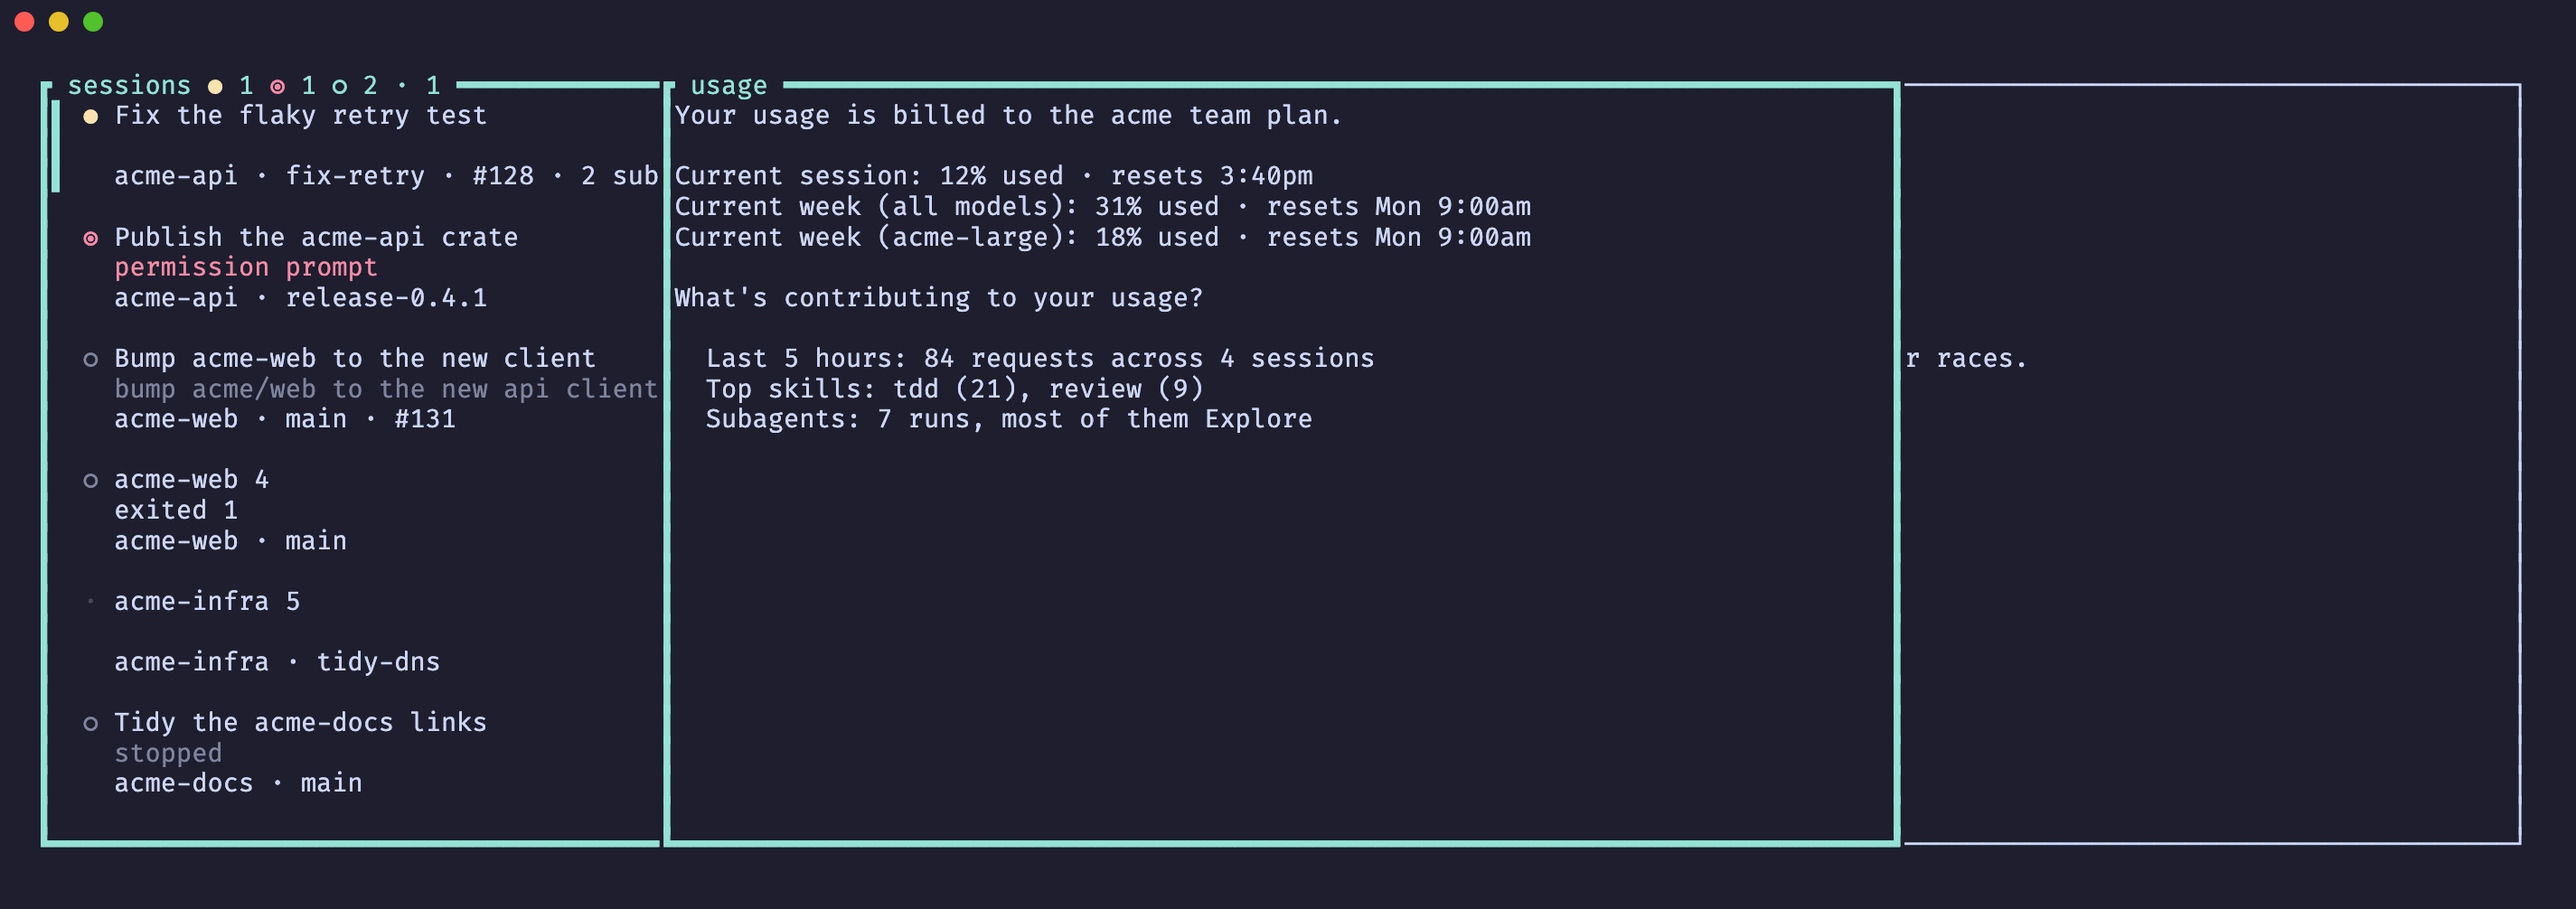
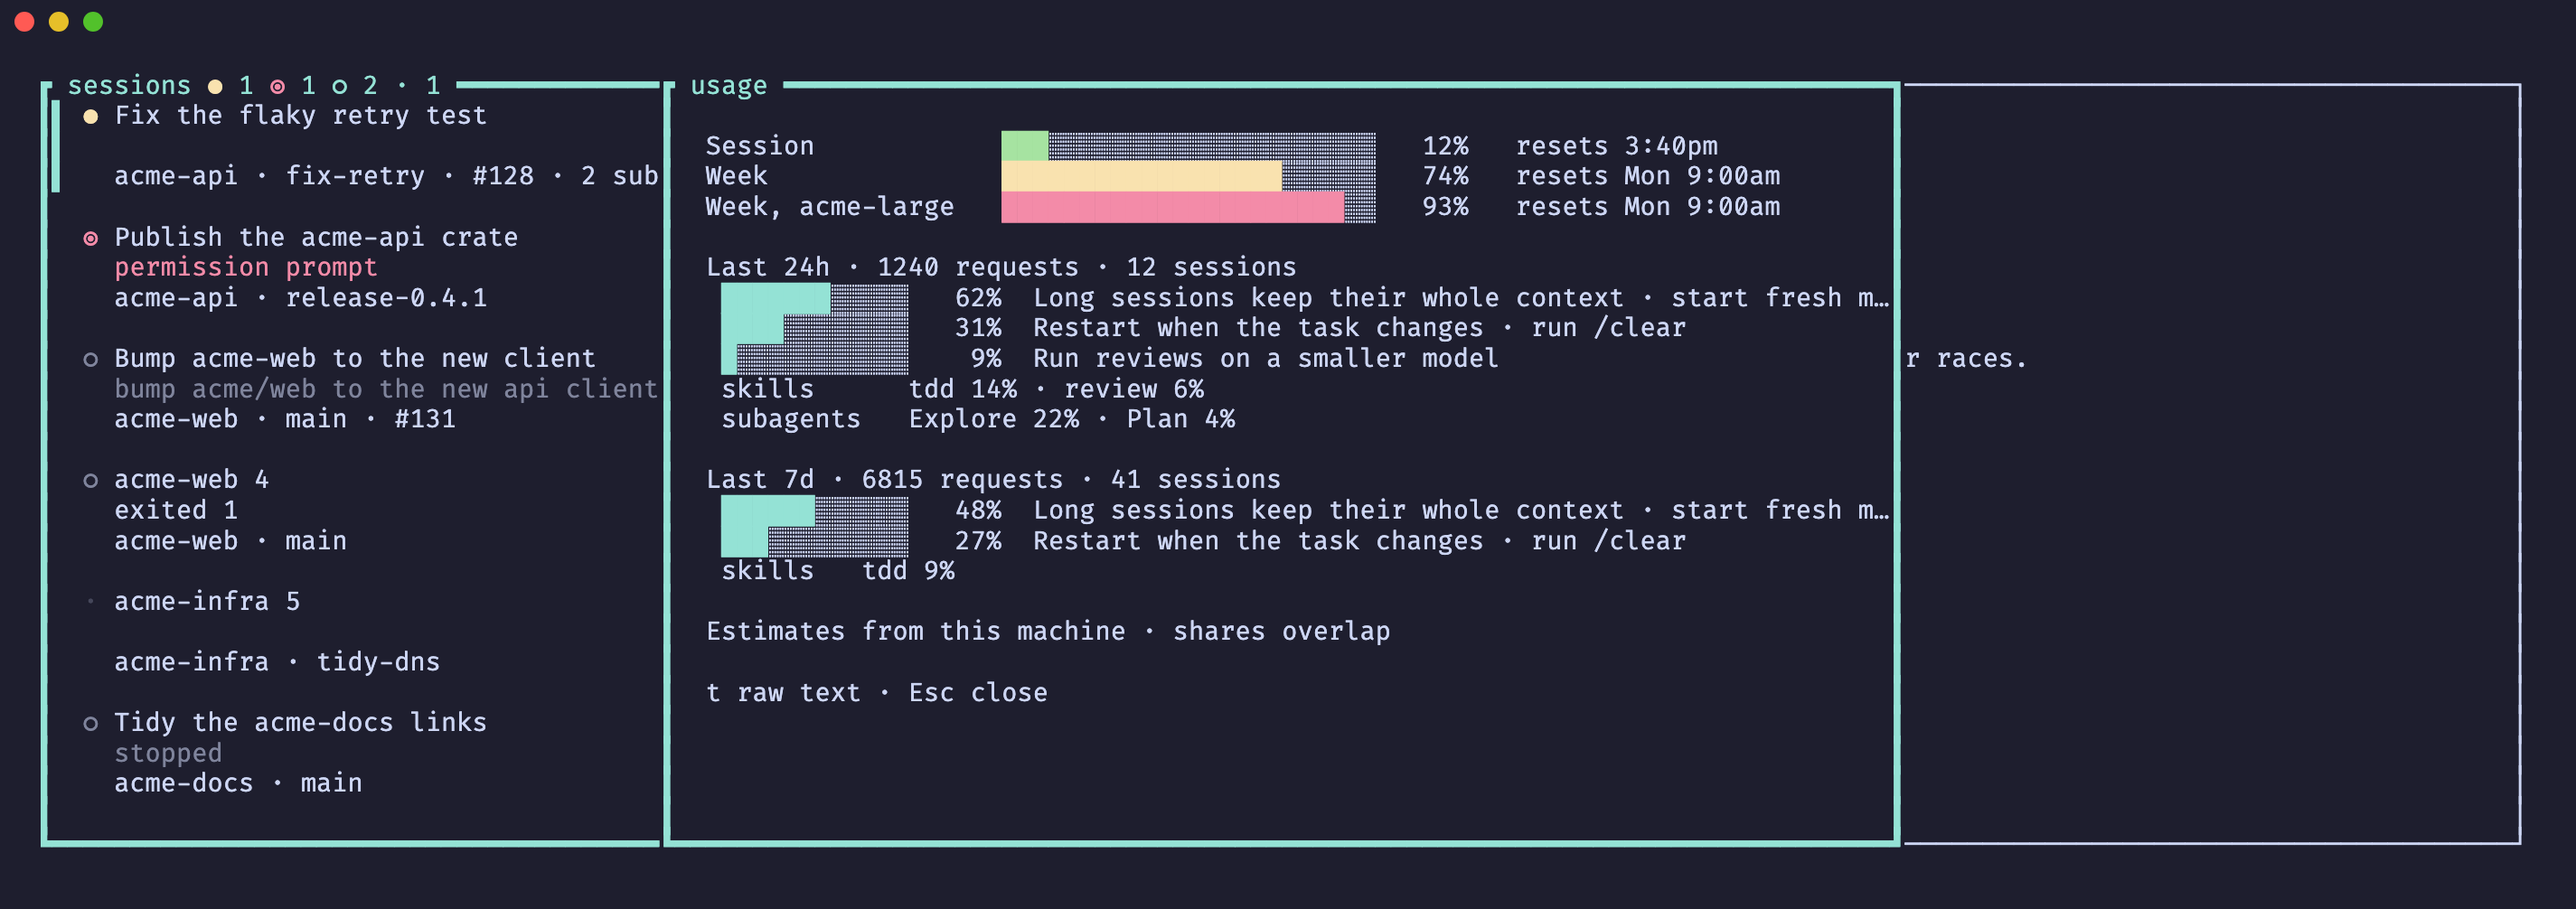
The demo's usage report draws its breakdowns and the usage shot is taken again

diff --git a/src/demo.rs b/src/demo.rs
@@ -62,14 +62,22 @@ pub fn editor() -> Program {
 const UNKNOWN: &str = r#"printf 'acme shell in ~/%s\n' "${PWD##*/}"
 exec sleep 86400"#;
 
-const USAGE: &str = r#"printf 'Your usage is billed to the acme team plan.\n\n'
-printf 'Current session: 12%% used · resets 3:40pm\n'
-printf 'Current week (all models): 31%% used · resets Mon 9:00am\n'
-printf 'Current week (acme-large): 18%% used · resets Mon 9:00am\n\n'
-printf '\033[1mWhat'"'"'s contributing to your usage?\033[0m\n\n'
-printf '  Last 5 hours: 84 requests across 4 sessions\n'
-printf '  Top skills: tdd (21), review (9)\n'
-printf '  Subagents: 7 runs, most of them Explore\n'"#;
+const USAGE: &str = r#"printf 'You are on the acme team plan\n\n'
+printf 'Current session: 12%% used · resets 3:40pm (Acme/Harbour)\n'
+printf 'Current week (all models): 74%% used · resets Mon 9:00am (Acme/Harbour)\n'
+printf 'Current week (acme-large): 93%% used · resets Mon 9:00am (Acme/Harbour)\n\n'
+printf '\033[1mWhat'"'"'s contributing to your usage?\033[0m\n'
+printf 'Estimates from this machine · shares overlap\n\n'
+printf 'Last 24h · 1240 requests · 12 sessions\n'
+printf '  62%%  Long sessions keep their whole context · start fresh more often\n'
+printf '  31%%  Restart when the task changes · run /clear\n'
+printf '  9%%  Run reviews on a smaller model\n'
+printf '  Top skills: tdd 14%%, review 6%%\n'
+printf '  Top subagents: Explore 22%%, Plan 4%%\n\n'
+printf 'Last 7d · 6815 requests · 41 sessions\n'
+printf '  48%%  Long sessions keep their whole context · start fresh more often\n'
+printf '  27%%  Restart when the task changes · run /clear\n'
+printf '  Top skills: tdd 9%%\n'"#;
 
 pub fn fresh() -> Vec<String> {
     script(WORKING)

diff --git a/tests/e2e/editor.rs b/tests/e2e/editor.rs
@@ -254,7 +254,16 @@ fn u_in_the_demo_shows_a_made_up_usage_report() {
 
     let screen = server.wait_for_screen("12%   resets 3:40pm");
     assert!(screen.contains(" usage "), "{screen}");
-    assert!(screen.contains("31%   resets Mon 9:00am"), "{screen}");
+    assert!(screen.contains("74%   resets Mon 9:00am"), "{screen}");
+    assert!(
+        screen.contains("Last 7d · 6815 requests · 41 sessions"),
+        "{screen}"
+    );
+    assert!(
+        screen.contains("subagents   Explore 22% · Plan 4%"),
+        "{screen}"
+    );
+    assert!(screen.contains("t raw text · Esc close"), "{screen}");
 }
 
 fn harbours_tmux(server: &Server) -> (String, String) {

diff --git a/AGENTS.md b/AGENTS.md
@@ -60,8 +60,8 @@ src/app/find.rs               Alt-s (or Alt-S, Caps Lock on), only in an extende
 src/app/zoom.rs               zoom: Alt-z (or Alt-Z, Caps Lock on), only in an extended form and never from an editor (a legacy `ESC z` or an editor's Alt-z goes on to the session), from the sidebar or Claude Code on a running session shows its pane alone and focuses it (from the sidebar its Claude Code, even on a card that showed its editor), and again brings the sidebar back, clearing a failure message as it zooms; each frame drops it once the pane loses focus or the session ends, and Alt-\ side by side with no editor left turns into it; the zoomed border: the counts at the right, then the session's headline (`src/zoom.rs`) guaranteed its dot, up to 16 columns of title and the time, the names in the rest, what they leave back to the headline
 src/app/side.rs               side by side: Alt-\, under the same rule as Alt-z, from the sidebar or Claude Code on a running session hides the sidebar and shows its Claude Code in the left half and its editor (the one last shown, else one opened as C-l opens it) in the right, focusing Claude Code, and again brings the sidebar back; nothing under 120 columns or when the editor cannot open; C-l and C-h move the focus between the halves, a click focuses its half and a gesture stays with the half it began in, only the focused half draws a cursor; a jump (Ctrl-1 to Ctrl-9, a pick from the session finder, a stopped card that resumes) keeps the mode and the half its session last had focused, shows its Claude Code alone as Alt-z does when its editor cannot start, and keeps the mode under 120 columns; a jump to an exited session or a refused resume brings the sidebar back; narrower than 120 columns the focused half fills the screen until the terminal widens; each frame drops it once the pane loses focus or the session ends (an exited session's Claude Code then shows dimmed); the borders: the headline and `claude` over the left half, the editor's name and directory and the counts over the right, the focused half's names bold
 src/app/remember.rs           what the app does with remembered sessions: recalls them once as stopped cards, at most 100 by position, from one listing of every projects folder (a card whose transcript is gone is left out, its file forgotten once it is 30 days old), says on line 2 and in the pane why one cannot resume (`directory gone`, `open elsewhere` while a live pid's registry file or another harbour's reservation names its id), resumes one with `<command> --resume <id>` in its directory after checking both again and reserving the id for as long as it runs, keeps each session's id, directory, title and position once its transcript exists (again when its file went missing, once more when it exits and at quit), merges a stopped card into the session that resumed its conversation, forgets on `x` (never a file a session open elsewhere owns), clears its `gone` and `open elsewhere` messages on a new selection, the next attempt or once the card can resume, and adds `Conversations come back stopped.` to the quit question
-src/app/usage.rs              `u`: a popup, 80 by 30 or the terminal when smaller, running `<claude> -p --no-session-persistence --setting-sources user /usage` (the session command's program when its file name is `claude`, its arguments dropped, else a refusal on the message line) always in harbour's private (0700) `usage/` beside `status/` under the state folder, made on demand and closed again when found open, never a session's folder, since `-p` skips the trust question (no state folder, or one it cannot make private, refuses on the message line), on a 200-row PTY so it shows the start of the report; `loading…` while nothing is printed, the screen as soon as anything prints, and `printed nothing` or `exit <code>` in its title only once its process has exited and its output is read to its end, or half a second after the exit when something it started keeps the terminal open; the PTY keeps its width once something printed, so a narrower popup shows the left part and widening shows it all again; only `u` or `U` with no modifier but Shift opens it; every key, paste and mouse event goes to it while open, Esc and `q` or `Q` close it, end its process and log `usage closed`; never a card, never remembered
-src/usage.rs                  the usage report of `u` read and drawn, pure functions: `parse`, the report's screen text in (soft-wrapped rows already joined by `vt100`), its limits (any line not indented of the shape `<name>: <n>% used`, the reset kept as printed without its time zone) out, `None` without one; `lines`, the bars drawn for the popup's inside
+src/app/usage.rs              `u`: a popup, 80 by 30 or the terminal when smaller, running `<claude> -p --no-session-persistence --setting-sources user /usage` (the session command's program when its file name is `claude`, its arguments dropped, else a refusal on the message line) always in harbour's private (0700) `usage/` beside `status/` under the state folder, made on demand and closed again when found open, never a session's folder, since `-p` skips the trust question (no state folder, or one it cannot make private, refuses on the message line), on a 200-row PTY so it shows the start of the report; `loading…` while nothing is printed, the screen as soon as anything prints, and `printed nothing` or `exit <code>` in its title only once its process has exited and its output is read to its end, or half a second after the exit when something it started keeps the terminal open; the PTY keeps its width once something printed, so a narrower popup shows the left part and widening shows it all again; once finished, a report `src/usage.rs` parses is drawn as bars for each width, `t raw text · Esc close` on its last row, and `t` or `T` with no modifier but Shift switches to the screen as printed (` t bars ` on the bottom border) and back, a popup opened again starting on the bars; `t` goes to the report's process while no bars can show; only `u` or `U` with no modifier but Shift opens it; every key, paste and mouse event goes to it while open, Esc and `q` or `Q` close it, end its process and log `usage closed`; never a card, never remembered
+src/usage.rs                  the usage report of `u` read and drawn, pure functions: `parse`, the report's screen text in (soft-wrapped rows already joined by `vt100`), its limits (any line not indented of the shape `<name>: <n>% used`, the reset kept as printed without its time zone), its breakdowns (a heading not indented after the first limit, its indented `<n>%  <tip>` and `Top <kind>: <values>` lines, any other indented line joined to the one before) and its notes (a heading with nothing indented under it, not a question) out, `None` without a limit; `lines`, the bars drawn for the popup's inside (24 cells a limit, green, yellow from 70%, red from 90%; 12 a share in the accent; one cell less per column under 78, down to 4), every line cut with `…` by display width, the hint kept on the last row
 src/app/split.rs              how the sidebar and the pane share the terminal: two columns, from 60 columns, the sidebar a third or the configured width cut to half, the pane the rest; below that one side at a time, the pane while it has focus, else the sidebar; zoomed or side by side, the pane alone; Alt-minus and Alt-equals, with or without Shift, only in an extended form and never from an editor, make the sidebar 2 columns narrower or wider, from 15 columns to half, nothing under 60 columns or while zoomed, the width kept in place of the configured one until quit
 src/handoff.rs                `harbour edit <file>` and its listener: the file made absolute (its folder resolved when the file does not exist yet, a dangling symlink followed to where it points, 4096 bytes at most), every harbour asked over a socket in a private (0700) `$XDG_STATE_HOME/harbour/edit/`, else `~/.local/state/harbour/edit/`, which of its sessions holds it, how deep its root lies, whether it is selected and when it was last used, and the first by that order told to open it; the listener binds `<pid>-<n>.sock` (0600), removes it when dropped, binds again within 5 s when it is gone, removes the sockets no process listens on, and, on a thread of its own that sleeps in `poll` until a connection, its check or harbour's exit wakes it, accepts, checks the peer and reads each request on a thread of its own (at most 16 in flight, the rest closed at once), keeping only a request from its own user that arrives within 100 ms and has not expired; it resolves the path again itself, answers `none` or a refusal when it does not resolve, and hands the app the rest over a channel with a deadline of its expiry, 5 s at most
 src/memory.rs                 the remembered sessions on disk: one `<sessionId>.json` per conversation under `$XDG_STATE_HOME/harbour/sessions/<configuration>/`, else `~/.local/state/harbour/sessions/<configuration>/`, one folder per Claude Code configuration (a stable hash of its resolved `projects/` path, symlinks followed), so a harbour never shows, resumes or prunes another configuration's conversations (0700 folder, 0600 files, written through a staged file and a rename, a staged file older than a minute swept); the directory stored as text, or as its bytes when it is not UTF-8; no file names another, so none deletes another; read leniently: a regular file only, never through a symlink, at most 64 KiB, `version` 1, an id of Claude Code's shape (a lowercase 8-4-4-4-12 hex UUID, so `--resume <id>` never reads it as an option) matching its name, an absolute directory, anything else skipped and left on disk, a file from a newer version never overwritten or removed; `reserve`: a private `<id>.<unique>.lock` held with a non-blocking lock by every running session with a remembered id (taken when the id is first known, the new one taken before the old one is released when it changes, tried again at each read while held elsewhere) and kept only while that file is still at its path, retried once when held, dead ones swept

diff --git a/plans/metrics.md b/plans/metrics.md
@@ -52,4 +52,4 @@ costs context.
 | 27 | #100 | 2026-11-21 10:13:44Z | 10:21:58Z | 11:26Z | 11:36:25Z | 11:36:40Z | 11:38:19Z (v0.23.0) | 1 h 24 min 35 s | 2 | measured, `subagent_tokens` of the completion notices: 121014, 152154; the notice of the last ship is not known when this row is written | measured, `subagent_tokens` of the `/code-review` skill, one per round: round 1: 126081, round 2: 148764 | none | context 723350 at start, 758815 at the clean review, measured from its transcript, no compaction between the two; tokens unknown | 1 h 13 min from build start (10:13Z) to the end of the clean review round. The orchestrator session was shared with phases 26 and 28 built in parallel. The notice of the last ship is not known when this row is written. Ready, merged and released were written by phase 29, read from GitHub; start → end runs to the v0.23.0 release. |
 | 28 | #101 | 2026-11-21 10:54:13Z | 11:05:14Z | 12:23Z | 12:44:27Z | 12:47:54Z | | | 2 | measured, `subagent_tokens` of the completion notices: 161708, 160381; the notice of the last ship is not known when this row is written | measured, `subagent_tokens` of the `/code-review` skill, one per round: round 1: 157188, round 2: 137286 | none | context 747336 at start, 793094 at the clean review, measured from its transcript, no compaction between the two; tokens unknown | 1 h 29 min from build start (10:54Z) to the end of the clean review round. The orchestrator session was shared with phases 27 and 29 built in parallel. The notice of the last ship is not known when this row is written. Build start from the worktree's reflog, the draft from `gh pr view 101 --json createdAt`. Ready and merged were written by phase 29, read from GitHub; no release run had started for the merge when this row was written, so Released and start → end are left for the next phase. |
 | 29 | #103 | 2026-11-21 11:37:41Z | 11:47:00Z | 13:53Z | | | | | 2 | measured, `subagent_tokens` of the completion notices: 162549, 143219; the notice of the last ship is not known when this row is written | measured, `subagent_tokens` of the `/code-review` skill, one per round: round 1: 163822, round 2: 87098 | none | context 772748 at start, 825147 at the clean review, measured from its transcript, no compaction between the two; tokens unknown | 2 h 16 min from build start (11:37Z) to the end of the clean review round. The orchestrator session was shared with phases 27 and 28 built in parallel. The notice of the last ship is not known when this row is written. Phase 28's merge commit started no release run, so its Released cell stays empty until a later run releases it. |
-| 31 | | 2026-11-21 20:44:57Z | | | | | | | | | | none | | Build start from the worktree's reflog. Phase 30 was built in parallel and is not on `main` when this row is written. |
+| 31 | #118 | 2026-11-21 20:44:57Z | 21:07:15Z | | | | | | | | | none | | Build start from the worktree's reflog. Phase 30 was built in parallel and is not on `main` when this row is written. |

diff --git a/plans/phase-31-usage-bars.md b/plans/phase-31-usage-bars.md
@@ -107,4 +107,18 @@ shapes below are written in invented wording and numbers; nothing the probe prin
 
 ## Outcome
 
+- Shipped as planned, in five tasks: the limit bars, the breakdowns and notes, `t` and the
+  hints, the cut and the colours, the demo and `docs/usage.png`.
+- The bars show only once the report finished; the existing app tests whose made-up reports
+  read `<n>% used` were reworded to `% spent`, so they keep testing the text view.
+- `lines` cuts each line span by span: a span that overflows, or fills the room while more
+  follows, is cut with `text::fit`, so a line that does not fit always ends in `…`.
+- Unverified, as in "Verified facts": the report of an account with no weekly limit, no model
+  line, or an API key.
+
 ## Hurdles
+
+- `test-seam` The first ship failed on the end-to-end demo test, which waited for the report's
+  raw text that the bars now replace → code
+- `design` Two expected rows of the drawing tests were counted by hand wrongly (a 4-cell bar's
+  rounding, a 58-column inside taken for 60) and fixed in the test before the code → none
